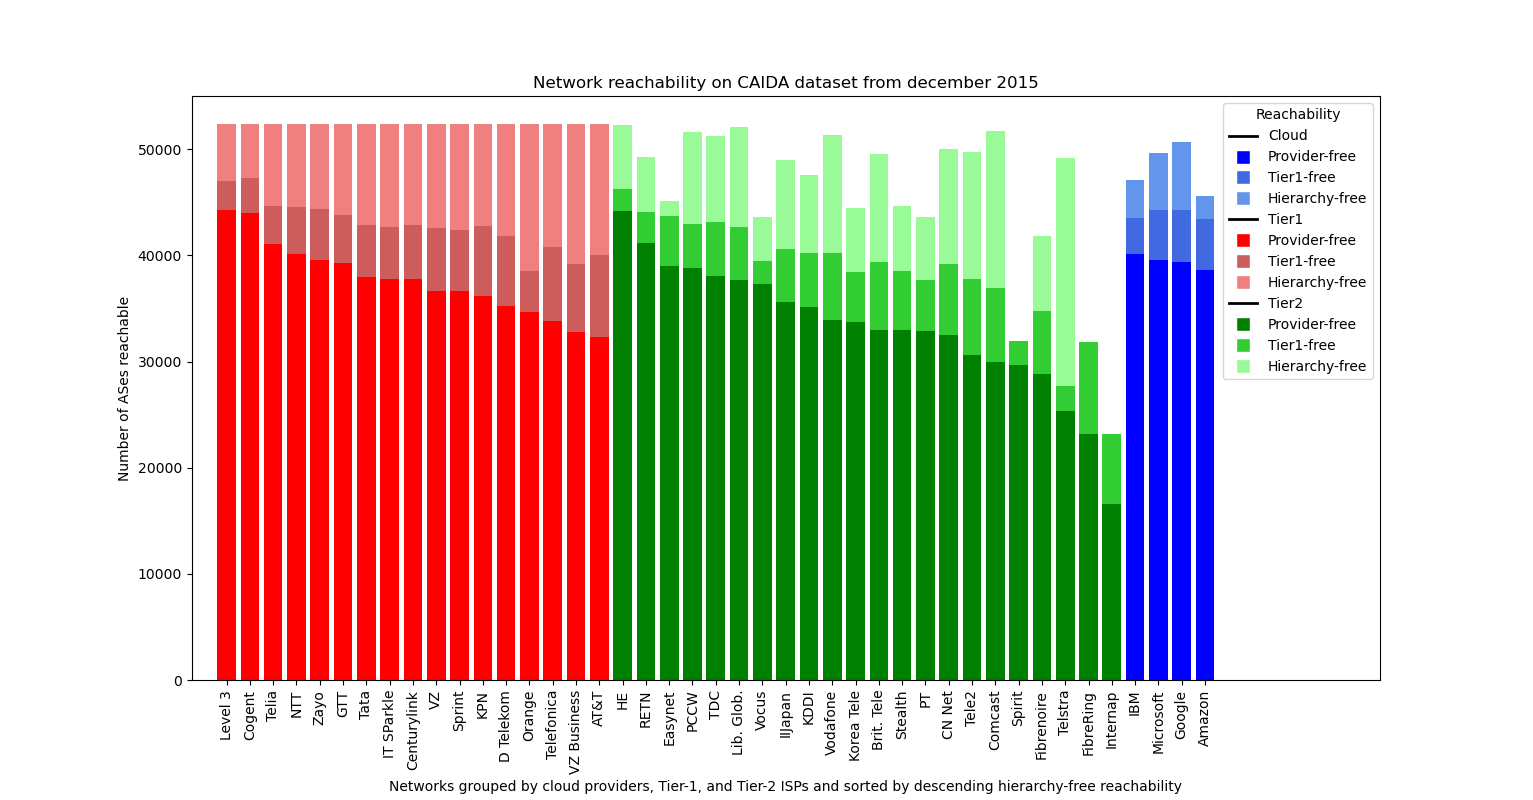
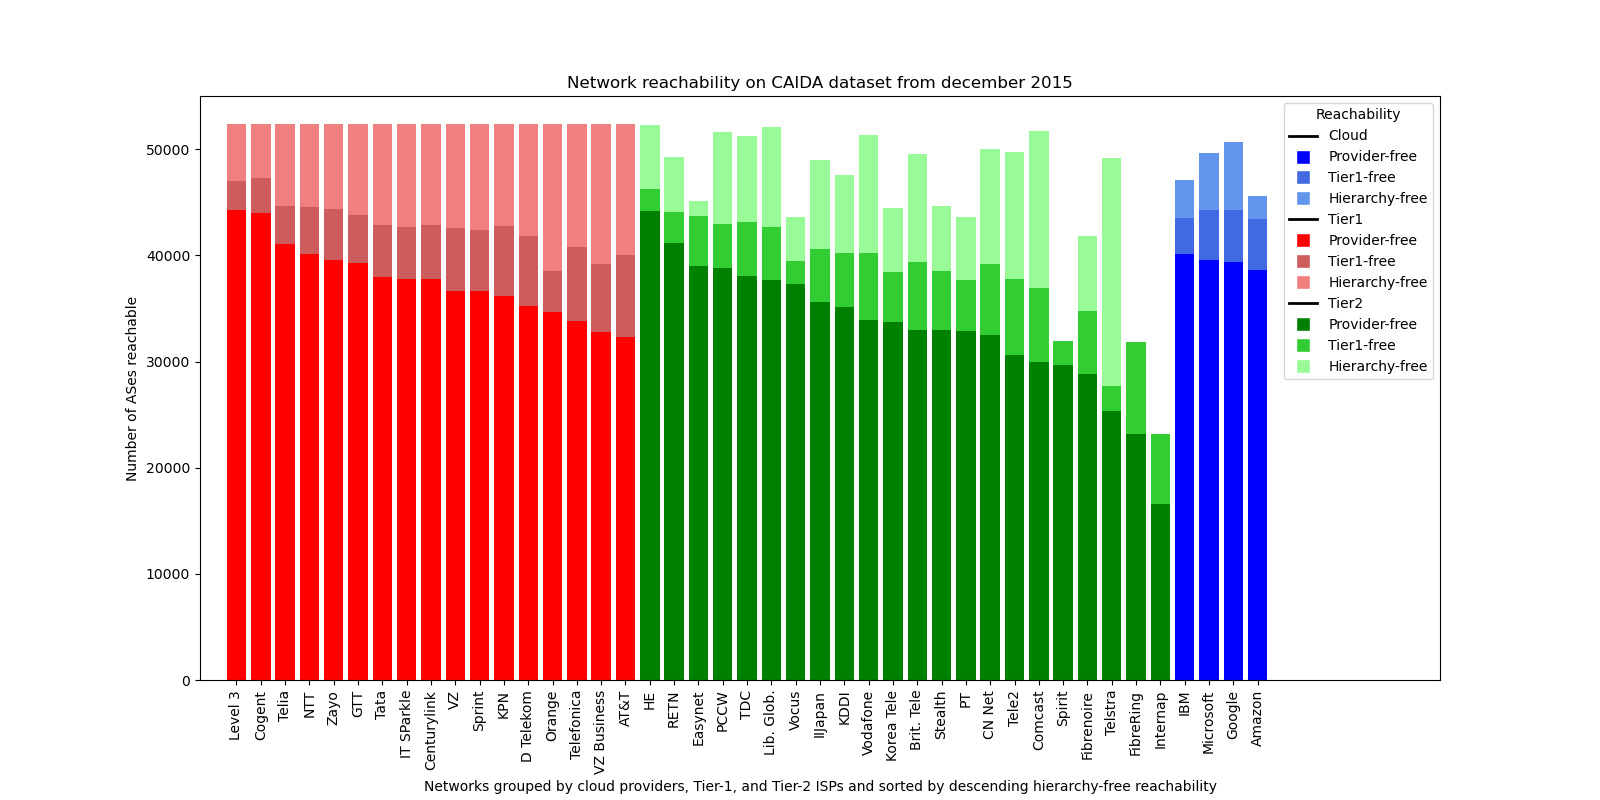
Automated plotting and storing, started to plot reachability% diagram

diff --git a/reachability.py b/reachability.py
@@ -1,17 +1,16 @@
 
 import matplotlib.pyplot as plt
 import matplotlib.lines as Line2D
+import numpy as np
+import matplotlib.pyplot as plt
 
 import pandas as pd
 
-types = {8075:0, 15169:0, 16509:0, 36351:0} # 0 = cloud, 1 = tier-1, 2 = tier-2, 3 = was customer if tier-1, 4 = was provider
-p2c = {}
-p2p = {}
+
 
 
 
 # ixp = set()
-all_ases = set()
 
 as_to_name = {8075:"Microsoft", 15169:"Google", 16509:"Amazon", 36351:"IBM", 
               174:"Cogent", 209:"Centurylink", 286:"KPN", 701:"VZ Business", 1239:"Sprint", 1299:"Telia", 2828:"VZ", 2914:"NTT", 
@@ -36,8 +35,10 @@ tier2 = [6939, 7713, 3491, 4826, 9002, 1221, 7922, 4134, 4766, 1257, 3292, 22652
 # spirit 2711 (zu niedrig)
 
 def read_as_relationship(filename):
-    global types 
-    types = {8075:0, 15169:0, 16509:0, 36351:0}
+    types = {8075:0, 15169:0, 16509:0, 36351:0} # 0 = cloud, 1 = tier-1, 2 = tier-2, 3 = was customer if tier-1, 4 = was provider
+    p2c = {}
+    p2p = {}
+    all_ases = set()  
     with open(filename) as f:
         raw = f.readlines()
         for line in raw:
@@ -107,7 +108,9 @@ def read_as_relationship(filename):
         if (not a in types):
             types[a] = 2
 
-def reachability(bypass=[]):
+    return types, p2c, p2p, all_ases
+
+def reachability(types, p2c, p2p, bypass=[]):
     # 'moving down' (p2c) and 'moving on same layer' (p2p) reachability amount
     reachable = {}
     for a in types:
@@ -134,143 +137,169 @@ def reachability(bypass=[]):
                             stack.append(n)
     return reachable
 
-                  
-read_as_relationship("Data/20240901.as-rel2.txt")
-provider_free = reachability()
-tier_1_free = reachability([1])
-hierarchy_free = reachability([1,2])
+def calculate_and_plot(filename, sort_by_type, replot):
+    types = {8075:0, 15169:0, 16509:0, 36351:0} # 0 = cloud, 1 = tier-1, 2 = tier-2, 3 = was customer if tier-1, 4 = was provider
+    p2c = {}
+    p2p = {}
+    all_ases = set()                  
+    types, p2c, p2p, all_ases = read_as_relationship(filename)
+    provider_free = reachability(types, p2c, p2p)
+    tier_1_free = reachability(types, p2c, p2p, [1])
+    hierarchy_free = reachability(types, p2c, p2p, [1,2])
 
-# pandas
-idx = []
-provider_free_list = []
-tier_1_free_list = []
-hierarchy_free_list = []
-as_type_list =[]
-
-
-plotable_ases = []
-for a in types:
-    ases_reachable = [a]
-    ases_reachable.append(len(provider_free[a]))
-    ases_reachable.append(len(tier_1_free[a]))
-    ases_reachable.append(len(hierarchy_free[a]))
-    plotable_ases.append(ases_reachable)
     # pandas
-    # idx.append(as_to_name[a])
-    # provider_free_list.append(len(provider_free[a]))
-    # tier_1_free_list.append(len(tier_1_free[a]))
-    # hierarchy_free_list.append(len(hierarchy_free[a]))
-    # as_type_list.append(types[a])
-
-sort_by_type = True
-
-plotable_ases.sort(key=lambda x: x[3], reverse=True)
-print(len(plotable_ases))
-if (sort_by_type):
-    type_sorted_ases = []
-    for i in range(3):
-        for a in plotable_ases:
-            if (types[a[0]] == (i+1)%3):
-                type_sorted_ases.append(a)
-    print(len(type_sorted_ases))
-    print(len(plotable_ases))
-    plotable_ases = type_sorted_ases
+    # idx = []
+    # provider_free_list = []
+    # tier_1_free_list = []
+    # hierarchy_free_list = []
+    # as_type_list =[]
 
 
-# pandas
-sorted_data = { 
-    "provider-free":[a[1] for a in plotable_ases],
-    "tier-1-free":[a[2] for a in plotable_ases],
-    "hierarchy-free":[a[3] for a in plotable_ases],
-    "as-type":[types[a[0]] for a in plotable_ases]
-}
+    plotable_ases = []
+    for a in types:
+        ases_reachable = [a]
+        ases_reachable.append(len(provider_free[a]))
+        ases_reachable.append(len(tier_1_free[a]))
+        ases_reachable.append(len(hierarchy_free[a]))
+        plotable_ases.append(ases_reachable)
+        # pandas
+        # idx.append(as_to_name[a])
+        # provider_free_list.append(len(provider_free[a]))
+        # tier_1_free_list.append(len(tier_1_free[a]))
+        # hierarchy_free_list.append(len(hierarchy_free[a]))
+        # as_type_list.append(types[a])
+    plotable_ases.sort(key=lambda x: x[3], reverse=True)
+    if (sort_by_type):
+        type_sorted_ases = []
+        for i in range(3):
+            for a in plotable_ases:
+                if (types[a[0]] == (i+1)%3):
+                    type_sorted_ases.append(a)
+        plotable_ases = type_sorted_ases
 
 
-df = pd.DataFrame(sorted_data, index=[as_to_name[a[0]] for a in plotable_ases])
-print(df)
-
-import numpy as np
-import matplotlib.pyplot as plt
-
-# df.plot(kind="")
-
-# Beispiel-Daten
-label_ases = [a[0] for a in plotable_ases]
-# labels = [as_to_name[i] for i in label_ases]
-# n_groups = len(labels)
-# # Drei Werte für jede Säule (hinterster Wert ist der größte)
-# values1 = np.array([a[3] for a in plotable_ases])  # Vorderster Wert
-# values2 = np.array([a[2] for a in plotable_ases])  # Mittlerer Wert
-# values3 = np.array([a[1] for a in plotable_ases])  # Hinterster Wert
-
-# color_dict = {0:"blue", 1:"red", 2:"green"}
-
-# Farben für jede Säule (Basisfarben für vorderste Werte)
-# base_colors = [color_dict[types[i]] for i in label_ases]
-colors =   [["#6495ed", "#4169e1", "#0000ff"], # blue
-            ["#f08080", "#cd5c5c", "#ff0000"], # red
-            ["#98fb98", "#32cd32", "#008000"]] # green
-base_colors = [[colors[types[a[0]]][0] for a in plotable_ases],#["#6495ed", "#f08080", "#98fb98"],
-               [colors[types[a[0]]][1] for a in plotable_ases],#["#4169e1", "#cd5c5c", "#32cd32"],
-               [colors[types[a[0]]][2] for a in plotable_ases]]#["#0000ff", "#ff0000", "#008000"]]
+    # pandas
+    sorted_data = { 
+        "provider-free":[a[1] for a in plotable_ases],
+        "tier-1-free":[a[2] for a in plotable_ases],
+        "hierarchy-free":[a[3] for a in plotable_ases],
+        "reachability":[a[3]/len(all_ases) for a in plotable_ases],
+        "as-type":[types[a[0]] for a in plotable_ases]
+    }
 
 
-fig, ax = plt.subplots(figsize=(16, 8))
-bar_width = 0.85
-opacity = 1
-fig.subplots_adjust(bottom=0.15)
-# ax.set_ylim([0, max([a[1] for a in plotable_ases])])
 
-bottom = np.zeros(len(df))  # Initial bottom for stacking
-for i, col in enumerate(df.columns):
-    if (col != "as-type"):
-        ax.bar(df.index, df[col], bottom=bottom, color=base_colors[i], label=col)
-        #bottom += df[col].values  # Update bottom for next stack
+    df = pd.DataFrame(sorted_data, index=[as_to_name[a[0]] for a in plotable_ases])
 
+    year = filename.split("/")[-1][0:4]
 
-# # Hinterste Säule (größter Wert, volle Sichtbarkeit)
-# for i in range(n_groups):
-#     ax.bar(i, values3[i], color=base_colors[i], alpha=0.3, width=bar_width)
+    if (replot):
+        # df.plot(kind="")
 
-# # Mittlere Säule (mittlerer Wert, halbtransparent)
-# for i in range(n_groups):
-#     ax.bar(i, values2[i], color=base_colors[i], alpha=0.5, width=bar_width)
+        # Beispiel-Daten
+        label_ases = [a[0] for a in plotable_ases]
+        # labels = [as_to_name[i] for i in label_ases]
+        # n_groups = len(labels)
+        # # Drei Werte für jede Säule (hinterster Wert ist der größte)
+        # values1 = np.array([a[3] for a in plotable_ases])  # Vorderster Wert
+        # values2 = np.array([a[2] for a in plotable_ases])  # Mittlerer Wert
+        # values3 = np.array([a[1] for a in plotable_ases])  # Hinterster Wert
 
-# # Vorderste Säule (kleinster Wert, voll sichtbar)
-# for i in range(n_groups):
-#     ax.bar(i, values1[i], color=base_colors[i], alpha=1.0, width=bar_width)
+        # color_dict = {0:"blue", 1:"red", 2:"green"}
 
-# Achsenbeschriftungen
-ax.set_xlabel("Networks grouped by cloud providers, Tier-1, and Tier-2 ISPs and sorted by descending hierarchy-free reachability")
-ax.set_ylabel("Number of ASes reachable")
-ax.set_title("Network reachability on CAIDA dataset from september 2024")
-# ax.set_xticks(np.arange(n_groups))
-# ax.set_xticklabels(labels, rotation=90)
-ax.set_xlim(-1.5, len(types) + 6.5)
+        # Farben für jede Säule (Basisfarben für vorderste Werte)
+        # base_colors = [color_dict[types[i]] for i in label_ases]
+        colors =   [["#6495ed", "#4169e1", "#0000ff"], # blue
+                    ["#f08080", "#cd5c5c", "#ff0000"], # red
+                    ["#98fb98", "#32cd32", "#008000"]] # green
+        base_colors = [[colors[types[a[0]]][0] for a in plotable_ases],#["#6495ed", "#f08080", "#98fb98"],
+                    [colors[types[a[0]]][1] for a in plotable_ases],#["#4169e1", "#cd5c5c", "#32cd32"],
+                    [colors[types[a[0]]][2] for a in plotable_ases]]#["#0000ff", "#ff0000", "#008000"]]
 
 
-legend_elements = [
-    Line2D.Line2D([0], [0], color='black', lw=2, label="Cloud"),
-    Line2D.Line2D([0], [0], marker='s', color='w', markerfacecolor='#0000ff', markersize=10, label="Provider-free"),
-    Line2D.Line2D([0], [0], marker='s', color='w', markerfacecolor='#4169e1', markersize=10, label="Tier1-free"),
-    Line2D.Line2D([0], [0], marker='s', color='w', markerfacecolor='#6495ed', markersize=10, label="Hierarchy-free"),
+        fig, ax = plt.subplots(figsize=(16, 8))
+        bar_width = 0.85
+        opacity = 1
+        fig.subplots_adjust(bottom=0.15)
+        # ax.set_ylim([0, max([a[1] for a in plotable_ases])])
 
-    Line2D.Line2D([0], [0], color='black', lw=2, label="Tier1"),
-    Line2D.Line2D([0], [0], marker='s', color='w', markerfacecolor='#ff0000', markersize=10, label="Provider-free"),
-    Line2D.Line2D([0], [0], marker='s', color='w', markerfacecolor='#cd5c5c', markersize=10, label="Tier1-free"),
-    Line2D.Line2D([0], [0], marker='s', color='w', markerfacecolor='#f08080', markersize=10, label="Hierarchy-free"),
+        bottom = np.zeros(len(df))  # Initial bottom for stacking
+        for i, col in enumerate(df.columns):
+            if (col != "as-type" and col != "reachability"):
+                ax.bar(df.index, df[col], bottom=bottom, color=base_colors[i], label=col)
+                #bottom += df[col].values  # Update bottom for next stack
 
-    Line2D.Line2D([0], [0], color='black', lw=2, label="Tier2"),
-    Line2D.Line2D([0], [0], marker='s', color='w', markerfacecolor='#008000', markersize=10, label="Provider-free"),
-    Line2D.Line2D([0], [0], marker='s', color='w', markerfacecolor='#32cd32', markersize=10, label="Tier1-free"),
-    Line2D.Line2D([0], [0], marker='s', color='w', markerfacecolor='#98fb98', markersize=10, label="Hierarchy-free"),
-]
 
-# Add the legend to the plot
-ax.legend(handles=legend_elements, loc="upper right", title="Reachability", )
+        # # Hinterste Säule (größter Wert, volle Sichtbarkeit)
+        # for i in range(n_groups):
+        #     ax.bar(i, values3[i], color=base_colors[i], alpha=0.3, width=bar_width)
 
-plt.xticks(rotation=90)
+        # # Mittlere Säule (mittlerer Wert, halbtransparent)
+        # for i in range(n_groups):
+        #     ax.bar(i, values2[i], color=base_colors[i], alpha=0.5, width=bar_width)
+
+        # # Vorderste Säule (kleinster Wert, voll sichtbar)
+        # for i in range(n_groups):
+        #     ax.bar(i, values1[i], color=base_colors[i], alpha=1.0, width=bar_width)
+
+        # Achsenbeschriftungen
+        xlabel = "Network{grouping} cloud providers, Tier-1, and Tier-2 ISPs and sorted by descending hierarchy-free reachability"
+        title = "Network reachability on CAIDA dataset from {month} {year}"
+        group_str = "s grouped by" if sort_by_type else ""
+        month = "december" if year == "2015" else "september"
+
+        ax.set_xlabel(xlabel.format(grouping=group_str))
+        ax.set_ylabel("Number of ASes reachable")
+        ax.set_title(title.format(month=month, year=year))
+
+        
+        # ax.set_xticks(np.arange(n_groups))
+        # ax.set_xticklabels(labels, rotation=90)
+        ax.set_xlim(-1.5, len(types) + 6.5)
+
+
+        legend_elements = [
+            Line2D.Line2D([0], [0], color='black', lw=2, label="Cloud"),
+            Line2D.Line2D([0], [0], marker='s', color='w', markerfacecolor='#0000ff', markersize=10, label="Provider-free"),
+            Line2D.Line2D([0], [0], marker='s', color='w', markerfacecolor='#4169e1', markersize=10, label="Tier1-free"),
+            Line2D.Line2D([0], [0], marker='s', color='w', markerfacecolor='#6495ed', markersize=10, label="Hierarchy-free"),
+
+            Line2D.Line2D([0], [0], color='black', lw=2, label="Tier1"),
+            Line2D.Line2D([0], [0], marker='s', color='w', markerfacecolor='#ff0000', markersize=10, label="Provider-free"),
+            Line2D.Line2D([0], [0], marker='s', color='w', markerfacecolor='#cd5c5c', markersize=10, label="Tier1-free"),
+            Line2D.Line2D([0], [0], marker='s', color='w', markerfacecolor='#f08080', markersize=10, label="Hierarchy-free"),
+
+            Line2D.Line2D([0], [0], color='black', lw=2, label="Tier2"),
+            Line2D.Line2D([0], [0], marker='s', color='w', markerfacecolor='#008000', markersize=10, label="Provider-free"),
+            Line2D.Line2D([0], [0], marker='s', color='w', markerfacecolor='#32cd32', markersize=10, label="Tier1-free"),
+            Line2D.Line2D([0], [0], marker='s', color='w', markerfacecolor='#98fb98', markersize=10, label="Hierarchy-free"),
+        ]
+
+        # Add the legend to the plot
+        ax.legend(handles=legend_elements, loc="upper right", title="Reachability")
+
+        plt.xticks(rotation=90)
+
+    grouped = "" if sort_by_type else "un"
+    png_name = "Diagrams/{year}_{un}grouped".format(year=year, un=grouped)
+    plt.savefig(png_name)
+    # plt.show()
+    print("Created Diagram ", png_name)
+    return sorted_data
+
+replot = False 
+calculate_and_plot("Data/20151201.as-rel2.txt", True, replot)
+data_2015 = calculate_and_plot("Data/20151201.as-rel2.txt", False, replot)
+calculate_and_plot("Data/20200901.as-rel2.txt", True, replot)
+data_2020 = calculate_and_plot("Data/20200901.as-rel2.txt", False, replot)
+calculate_and_plot("Data/20240901.as-rel2.txt", True, replot)
+data_2024 = calculate_and_plot("Data/20240901.as-rel2.txt", False, replot)
+
+fig, ax = plt.subplots(figsize=(8, 16))  # Adjust size as needed
+ax.axis('tight')  # Remove empty space
+ax.axis('off')    # Hide axes
+
+# Create the table
+table = ax.table(cellText=data_2015.values, colLabels=data_2015.columns, loc='center')
 
 plt.show()
-
-fig2, ax2 = plt.subplots(figsize=(16, 8))
